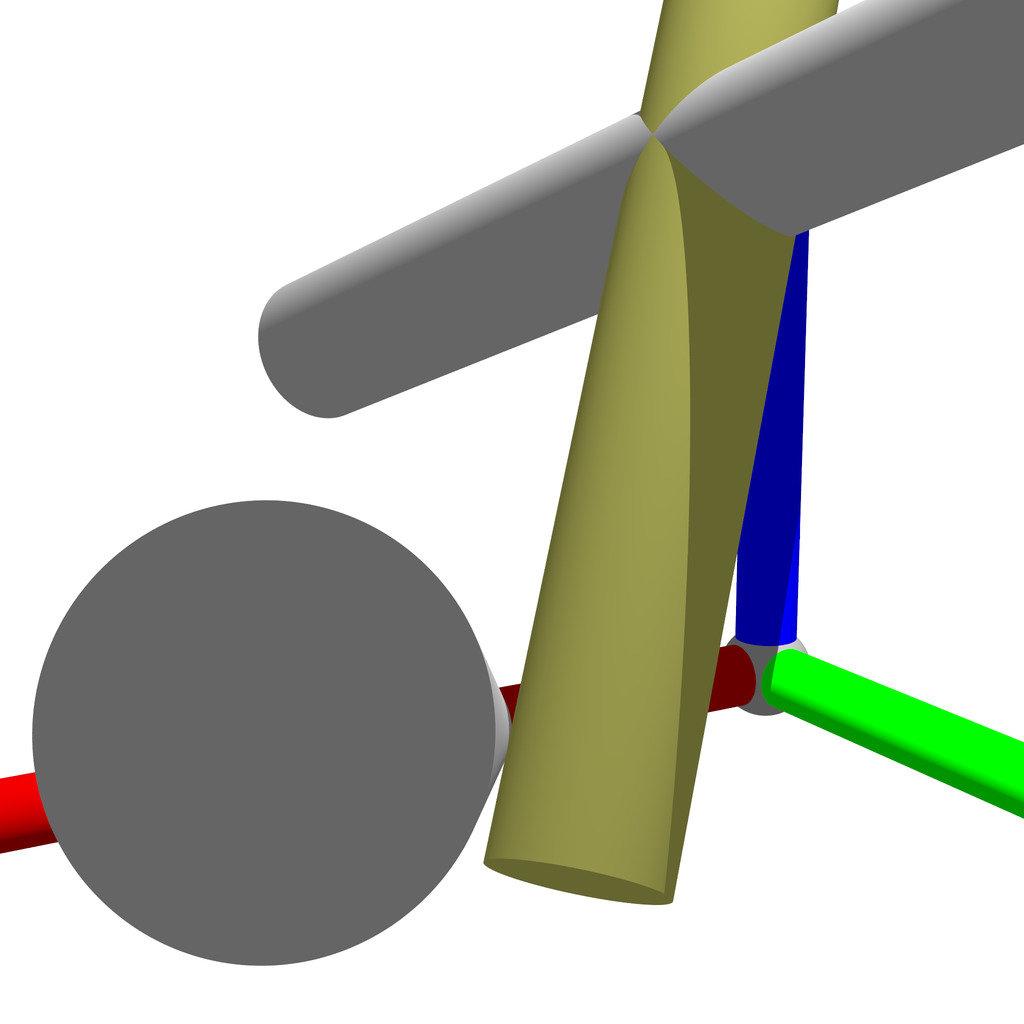
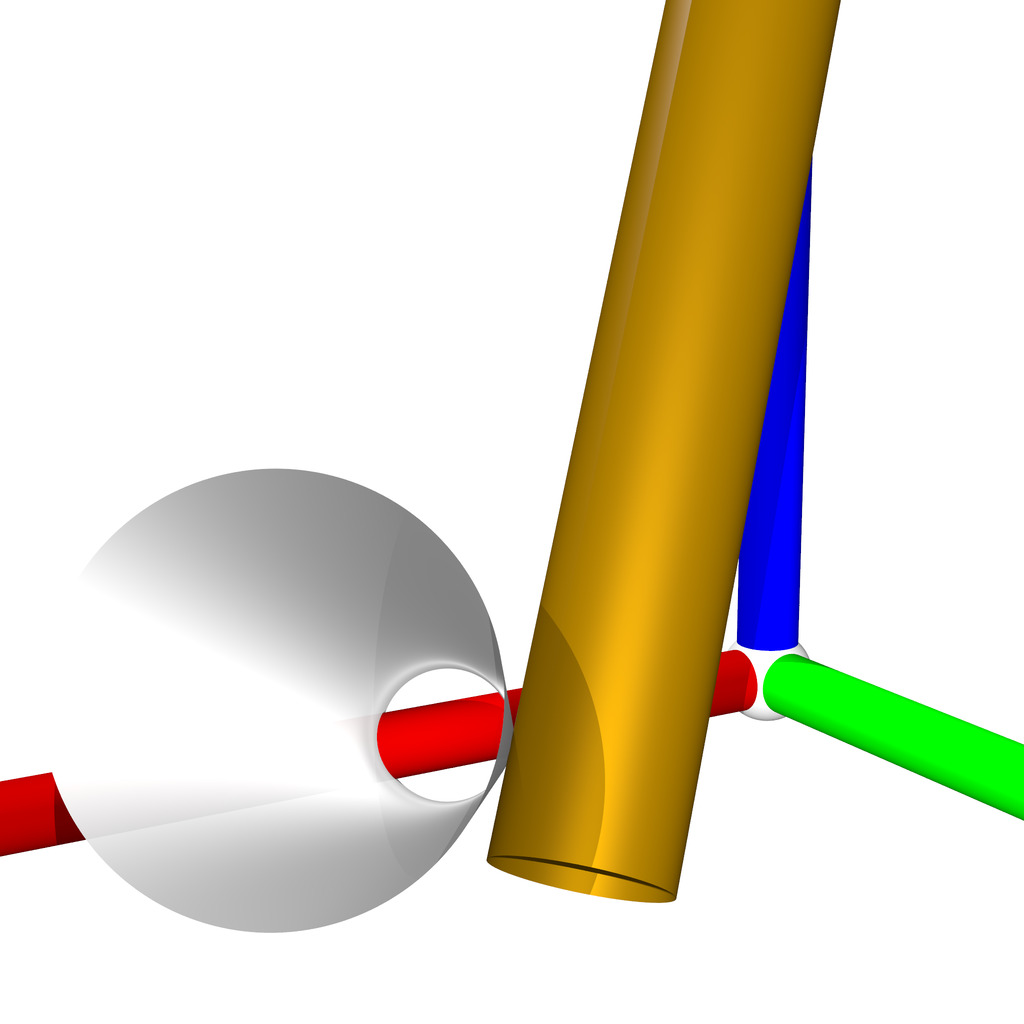
bessere Bilder für 50000014

diff --git a/aufgaben/5/50000014.tex b/aufgaben/5/50000014.tex
@@ -19,14 +19,29 @@ die Rohre nicht gegenseitig in den Weg kommen?
 
 \thema{Abstand windschiefer Geraden}
 
-\begin{loesung}
+\ifthenelse{\boolean{loesungen}}{
 \begin{figure}
-\includeagraphics[width=0.5\hsize]{tubes.jpg}
-\includeagraphics[width=0.5\hsize]{intersect.jpg}
+\begin{center}
+\begin{tikzpicture}[>=latex,thick]
+\def\w{8}
+\node at ({-\w/2},0) {\includeagraphics[width=8cm]{tubes.jpg}};
+\begin{scope}
+\clip (0,0) rectangle (\w,{\w/2});
+\node at ({\w/2},{\w/2-0.6}) {\includeagraphics[width=8cm]{intersect.jpg}};
+\end{scope}
+\begin{scope}
+\clip (0,{-\w/2}) rectangle (\w,0);
+\node at ({\w/2},-2.2) {\includeagraphics[width=8cm]{inside.jpg}};
+\end{scope}
+\end{tikzpicture}
+\end{center}
 \caption{3D-Darstellung der Röhren aus Aufgabe~\ref{50000014}.
-Rechts die beiden Schnittstellen im Detail.
+Rechts die Berührungsstelle der beiden Rohre und rechts unten
+der Teil des brauen Rohres, welcher im inneren des hellen Rohres
+sichtbar wird.
 \label{50000014:tubes}}
-\end{figure}
+\end{figure}}{}
+\begin{loesung}
 %\begin{teilaufgaben}
 %\item
 Das ist genau dann möglich, wenn der windschiefe Abstand der beiden
